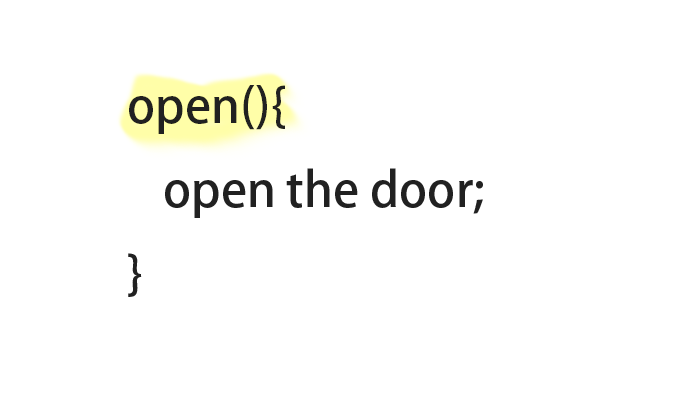
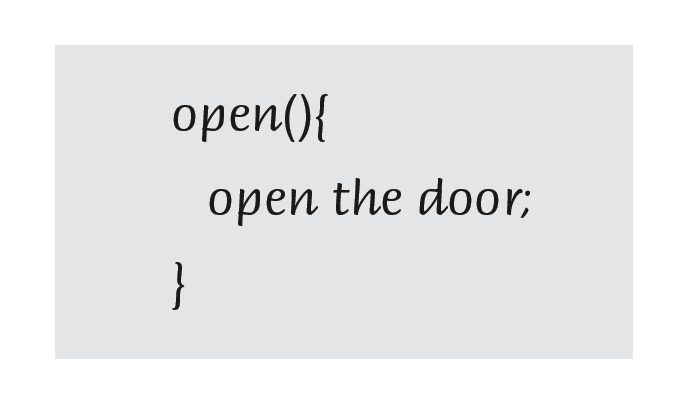
Small color edit
use the color given by anson. Change the background color. Edit some
font.

diff --git a/Source/map4/map4.js b/Source/map4/map4.js
@@ -5,6 +5,16 @@ var map4Str = [[],[],[]];
 var m4n = 0;
 var m4s = 0;
 
+function gameOver(){
+	_layer_2.onmousedown = null;
+	clearInterval(_timer);
+	addTB("clear");
+    addTB("Thank you for playing the game. This the end \
+    	of the game. If you have interest in our department \
+    	this is the link. <a href='http://www.comp.polyu.edu.hk/' \
+    	target = 'blank'>Click Me~</a>");
+}
+
 function initalMap4(){
 	if(map4talk==null){
 		map4talk = new Image();
@@ -50,7 +60,8 @@ function map4Next(){
 	}
 	m4n++;
 	if(m4n==map4Str[0].length){
-		_layer_2.onmousedown = null;
+		gameOver();
+		
 	}
 	
 }
@@ -157,7 +168,7 @@ function map4StrIni(){
 	map4Mark(0,4,"If you choose the other, I will give you some marks.");
 	dosTalk(2,"Then, let's begin the game!");
 
-	dosTalk(2,"Hi, Apple! It is very nice to meet you here!");
+	/*dosTalk(2,"Hi, Apple! It is very nice to meet you here!");
 	youChose("I'm Peter","Me too");
 	map4Mark(0,3,"Sorry...since your name is very hard to remember.");
 	map4Mark(2,2,"You seems good~");
@@ -286,7 +297,7 @@ function map4StrIni(){
 	dosTalk(2,"Will you choose our department?");
 	youChose("Yes","No");
 	map4Mark(3,1,"Thank you very much~");
-	map4Mark(0,3,"I'm almost crying...");
+	map4Mark(0,3,"I'm almost crying...");*/
 
 
 	dosTalk(2,"Thank you for playing.");

diff --git a/Source/javascript/map.js b/Source/javascript/map.js
@@ -77,25 +77,27 @@ function initialMap(n){
 function checkLeave(x, y) {
     var mx = 0;
     var my = 0;
-    if (y == 0) {
+    var t = x+y*20;
+    if(t*(t-1)*(t-20)==0){
+        mx = -1;
         my = -1;
-        if (x < 3) mx = -1;
-        if (x > 16) mx = 1;
-    } else
-    if (x == 0) {
-        mx = -1
-        if (y < 3) my = -1;
-        if (y > 11) my = 1;
-    } else
-    if (y == 14) {
+    }else if((t-9)*(t-10)==0){
+        my = -1;
+    }else if((t-18)*(t-19)*(t-39)==0){
+        my = -1;
+        mx = 1;
+    }else if((t-159)*(t-179)==0){
+        mx = 1;
+    }else if((t-279)*(t-299)*(t-298)==0){
+        mx = 1;
         my = 1;
-        if (x < 3) mx = -1;
-        if (x > 16) mx = 1;
-    } else
-    if (x == 19) {
-        mx = 1
-        if (y < 3) my = -1;
-        if (y > 11) my = 1;
+    }else if((t-289)*(t-290)==0){
+        my = 1;
+    }else if((t-260)*(t-280)*(t-281)==0){
+        mx = -1;
+        my = 1;
+    }else if((t-140)*(t-160)==0){
+        mx = -1;
     }
     if (mx != 0 || my != 0) {
         clearInterval(_walk_tick);

diff --git a/Source/index.html b/Source/index.html
@@ -5,10 +5,17 @@
     <meta charset="UTF-8">
     <title>Walking</title>
     <style>
+    body{
+        background-color: #434345;
+    }
+    a{
+        color: #e4e5e6;
+    }
     #smallMap {
         background: grey;
         height: 300px;
         width: 300px;
+        display:none;
     }
     
     .smallCell {
@@ -26,7 +33,7 @@
         float: left;
         height: 680px;
         width: 880px;
-        background: url("src/bg.jpg");
+        background: url("src/bg.png");
     }
     
     #boardDec {
@@ -35,10 +42,11 @@
     }
 
     #tb{
-        background: #111111;
         height: 400px;
         width : 400px;
         color: white;
+        margin-top : 200px;
+        color: #e4e5e6;
     }
     </style>
 </head>

diff --git a/Source/map2/map2.js b/Source/map2/map2.js
@@ -43,8 +43,8 @@ function initalMap2() {
 }
 
 function startMap2Event(x, y) {
-	winMap2();
-        return;
+	//winMap2();
+    //    return;
     if (_map2_card1 != -1 && _map2_card2 != -1) {
         if (_map2_pair[_map2_card1] != _map2_pair[_map2_card2]) {
             turnbackCard(_map2_card1);
